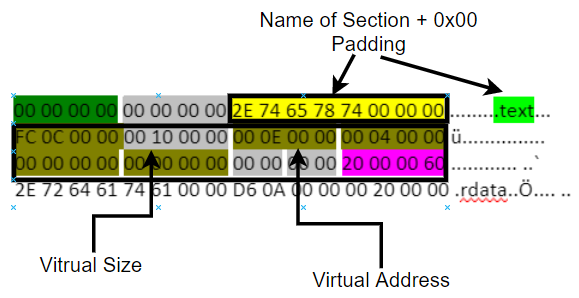
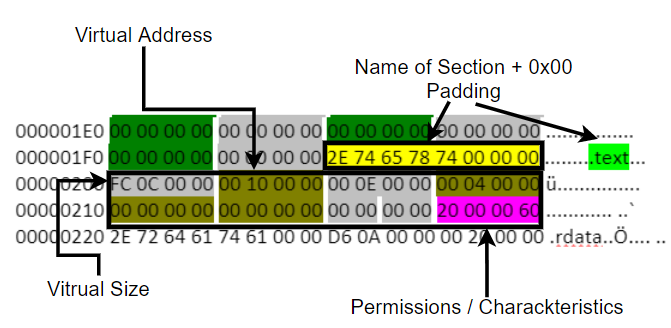
added text section header

diff --git a/all_collections/_posts/2020-06-02-PortableExecutable.md b/all_collections/_posts/2020-06-02-PortableExecutable.md
@@ -195,15 +195,15 @@ In our case we have 16 Data Directory Entrys
 |Offset           |Value             | Meaning                           |
 |-----------------|------------------|-----------------------------------|
 |0x01F8		      |0x2E74657874000000|Name of Section (here .text)	     |
-|0x0201			  |0xFC0C0000        |Physical Address				     |			   
-|0x0205			  |0x00100000	     |Virtual Size					     |			   
-|0x0209			  |0x00E00000	     |Virtual Address					 |			   
-|0x020D			  |0x00040000	     |Pointer to raw Data				 |			   
-|0x0211			  |0x00000000	     |Pointer to Relocations			 |			   
-|0x0215			  |0x00000000	     |Pointer to Linenumbers		     |			   
+|0x0200			  |0xFC0C0000        |Virtual Size						 |				     			   			   
+|0x0208			  |0x00100000	     |Virtual Address					 |
+|0x020C			  |0x000E0000	     |Size of Raw Data				     |				   
+|0x0210			  |0x00040000	     |Pointer to raw Data				 |			   
+|0x0214			  |0x00000000	     |Pointer to Relocations			 |			   
+|0x0218			  |0x00000000	     |Pointer to Linenumbers		     |			   
 |0x0219			  |0x0000		     |Number of Relocations			     |
 |0x021B			  |0x0000		     |Number of Linenumbers			     |
-|0x021D			  |0x20000006	     |Charackteristics				     |
+|0x021D			  |0x20000006	     |Charackteristics /permissions      |
 
 
 ![Pe Section Header](/mojo_blog/assets/pictures/portable-executable/pe-header-section-text.PNG)
